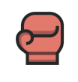
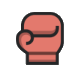
feat(ux): Combos as the third home card; Combos and Agent leave the header; boxing mark without its white box
The home cards are the front door for the agent, the analyst and the Combo
Builder; the header keeps the logo, help, theme and account, with the
league bar beneath. The boxing glove's white background is knocked out to
transparency.

diff --git a/client/src/components/shell/MarketNav.tsx b/client/src/components/shell/MarketNav.tsx
@@ -30,84 +30,35 @@ const LEAGUE_ITEMS: NavItem[] = SPORTS.map(
   }),
 );
 
-/** The product sections beside the logo: the Combo Builder and the agent. */
-const SECTION_ITEMS: NavItem[] = [
-  { label: "Combos", destination: { kind: "combos" } },
-  { label: "Agent", destination: { kind: "agent" } },
-];
-
-const ROW_BUTTON =
-  "inline-flex items-center gap-1.5 text-text hover:text-accent transition-colors cursor-pointer whitespace-nowrap";
-
 /**
- * Section nav — Combos · Agent — shared by the in-app header and the
- * docs/legal `SiteHeader`. The leagues live in `LeagueBar` (the sub-header)
- * on wide screens; the hamburger sheet (`layout="column"`) lists both the
- * leagues and the sections in one column (B-014 mobile guidance).
+ * The leagues as a single column, for the hamburger sheet (B-014 mobile
+ * guidance). On wide screens the same list is the `LeagueBar` sub-header.
+ * Combos and the agent are not header items: the home cards open them.
  */
 export function MarketNav({
   onNavigate,
   className,
-  layout = "row",
 }: {
   onNavigate: (destination: NavDestination) => void;
   className: string;
-  layout?: "row" | "column";
 }) {
-  if (layout === "column") {
-    return (
-      <nav aria-label="Markets" className={className}>
-        <ul className="flex flex-col text-[14px] font-medium">
-          {LEAGUE_ITEMS.map((item) => (
-            <li key={item.label}>
-              <button
-                type="button"
-                onClick={() => {
-                  onNavigate(item.destination);
-                }}
-                className={`flex w-full items-center gap-2.5 rounded-sm px-2 py-2.5 text-left transition-colors cursor-pointer hover:bg-row-hover hover:text-accent ${item.comingSoon ? "text-text-dim" : "text-text"}`}
-              >
-                {item.sport && <LeagueLogo league={item.sport} />}
-                {item.label}
-                {item.comingSoon && item.sport && (
-                  <span className="ml-auto text-[11px] text-text-mute">Coming soon</span>
-                )}
-              </button>
-            </li>
-          ))}
-          <li>
-            <div className="my-2 h-px bg-border-soft" aria-hidden="true" />
-          </li>
-          {SECTION_ITEMS.map((item) => (
-            <li key={item.label}>
-              <button
-                type="button"
-                onClick={() => {
-                  onNavigate(item.destination);
-                }}
-                className="flex w-full items-center gap-2.5 rounded-sm px-2 py-2.5 text-left text-text hover:bg-row-hover hover:text-accent transition-colors cursor-pointer"
-              >
-                {item.label}
-              </button>
-            </li>
-          ))}
-        </ul>
-      </nav>
-    );
-  }
   return (
-    <nav aria-label="Sections" className={className}>
-      <ul className="flex w-max mx-auto items-center gap-x-4 lg:gap-x-6 text-[13px] font-medium">
-        {SECTION_ITEMS.map((item) => (
+    <nav aria-label="Markets" className={className}>
+      <ul className="flex flex-col text-[14px] font-medium">
+        {LEAGUE_ITEMS.map((item) => (
           <li key={item.label}>
             <button
               type="button"
               onClick={() => {
                 onNavigate(item.destination);
               }}
-              className={ROW_BUTTON}
+              className={`flex w-full items-center gap-2.5 rounded-sm px-2 py-2.5 text-left transition-colors cursor-pointer hover:bg-row-hover hover:text-accent ${item.comingSoon ? "text-text-dim" : "text-text"}`}
             >
+              {item.sport && <LeagueLogo league={item.sport} />}
               {item.label}
+              {item.comingSoon && item.sport && (
+                <span className="ml-auto text-[11px] text-text-mute">Coming soon</span>
+              )}
             </button>
           </li>
         ))}

diff --git a/client/src/components/shell/HomeMenu.tsx b/client/src/components/shell/HomeMenu.tsx
@@ -1,6 +1,6 @@
-import { BarChart3, Bot } from "lucide-react";
+import { BarChart3, Bot, Layers } from "lucide-react";
 
-export type HomePromptId = "analyze" | "agent";
+export type HomePromptId = "analyze" | "agent" | "combos";
 
 const PROMPTS: { id: HomePromptId; title: string; icon: typeof Bot }[] = [
   { id: "agent", title: "Create / Manage Sports Agent", icon: Bot },
@@ -9,11 +9,12 @@ const PROMPTS: { id: HomePromptId; title: string; icon: typeof Bot }[] = [
     title: "Analyze today's NFL games, matchups, and markets",
     icon: BarChart3,
   },
+  { id: "combos", title: "Build a combo across today's games", icon: Layers },
 ];
 
 interface Props {
   onPromptSelect: (id: HomePromptId) => void;
-  /** `responsive` (default): 1 column below `md`, 2 above — the
+  /** `responsive` (default): 1 column below `md`, 3 above — the
    *  single-column mobile layout per the design guidance (B-014).
    *  `single`: always one column, for the hamburger nav sheet where the
    *  container is narrow regardless of viewport width. */
@@ -21,12 +22,13 @@ interface Props {
 }
 
 /**
- * The home page's prompt cards — the agent and the analyst, side by side
- * across the top (one column on mobile). Also reused as the quick-actions
- * block inside the mobile nav sheet.
+ * The home page's prompt cards — the agent, the analyst and the Combo
+ * Builder across the top (one column on mobile). Also reused as the
+ * quick-actions block inside the mobile nav sheet; with Combos and Agent
+ * gone from the header, these cards are their front door.
  */
 export function HomePromptRow({ onPromptSelect, columns = "responsive" }: Props) {
-  const gridCols = columns === "single" ? "grid-cols-1" : "grid-cols-1 md:grid-cols-2";
+  const gridCols = columns === "single" ? "grid-cols-1" : "grid-cols-1 md:grid-cols-3";
   return (
     <div className={`grid ${gridCols} gap-3`}>
       {PROMPTS.map((p) => {

diff --git a/client/src/components/shell/Header.tsx b/client/src/components/shell/Header.tsx
@@ -4,7 +4,7 @@ import { useTheme } from "@/hooks/use-theme.tsx";
 import { Button } from "@/components/ui/button.tsx";
 import { Logo } from "./Logo.tsx";
 import { WalletMenu } from "./WalletMenu.tsx";
-import { LeagueBar, MarketNav, type NavDestination } from "./MarketNav.tsx";
+import { LeagueBar, type NavDestination } from "./MarketNav.tsx";
 import type { SportId } from "@/features/markets/sports.ts";
 import { MobileNavSheet } from "./MobileNavSheet.tsx";
 import type { HomePromptId } from "./HomeMenu.tsx";
@@ -34,8 +34,8 @@ interface HeaderProps {
 }
 
 /**
- * Top bar — logo left, league nav centred, theme toggle + Connect Wallet
- * right. Mirrors `SiteHeader` (docs/legal) so the nav is continuous across
+ * Top bar — logo left, help / theme / account right, the league bar
+ * beneath. Mirrors `SiteHeader` (docs/legal) so the nav is continuous across
  * both surfaces; below `md` the nav hides behind a hamburger that opens the
  * `MobileNavSheet` (B-014 mobile guidance: hidden sidebar + hamburger).
  */
@@ -81,8 +81,7 @@ export function Header({
           <Logo size={30} />
           <span className="hidden text-[17px] font-semibold tracking-tight sm:inline">Mantua</span>
         </button>
-        <MarketNav onNavigate={onNavigate} className="hidden min-w-0 flex-1 md:block" />
-        <div className="ml-auto flex shrink-0 items-center gap-1.5 md:ml-0 md:gap-2.5">
+        <div className="ml-auto flex shrink-0 items-center gap-1.5 md:gap-2.5">
           {/* Task 070 (AE-007) — help is one press from anywhere, signed in
               or not; the app listens for the event like it does for login. */}
           <Button

diff --git a/client/src/components/shell/SiteHeader.tsx b/client/src/components/shell/SiteHeader.tsx
@@ -2,7 +2,7 @@ import type { ReactNode } from "react";
 import { Sun, Moon } from "lucide-react";
 import { useTheme } from "@/hooks/use-theme.tsx";
 import { Logo } from "./Logo.tsx";
-import { LeagueBar, MarketNav, type NavDestination } from "./MarketNav.tsx";
+import { LeagueBar, type NavDestination } from "./MarketNav.tsx";
 
 interface Props {
   /** Rendered before the logo — the docs page's sidebar toggle. */
@@ -71,10 +71,7 @@ export function SiteHeader({
             <span className="text-[13px] text-text-dim">{tag}</span>
           </span>
         )}
-        {onNavigate && (
-          <MarketNav onNavigate={onNavigate} className="hidden min-w-0 flex-1 md:block" />
-        )}
-        <div className={`ml-auto flex shrink-0 items-center gap-2${onNavigate ? " md:ml-0" : ""}`}>
+        <div className="ml-auto flex shrink-0 items-center gap-2">
           <button
             type="button"
             onClick={toggle}
@@ -92,8 +89,6 @@ export function SiteHeader({
           </button>
         </div>
       </div>
-      {/* Too narrow to share the row — the nav gets its own strip. */}
-      {onNavigate && <MarketNav onNavigate={onNavigate} className="px-5 pb-3 md:hidden" />}
       {onNavigate && (
         <LeagueBar
           onNavigate={onNavigate}

diff --git a/client/src/components/shell/MobileNavSheet.tsx b/client/src/components/shell/MobileNavSheet.tsx
@@ -32,7 +32,6 @@ export function MobileNavSheet({ open, onOpenChange, onNavigate, onQuickAction }
           <SheetTitle>Menu</SheetTitle>
         </SheetHeader>
         <MarketNav
-          layout="column"
           className="mt-4"
           onNavigate={(destination) => {
             close();

diff --git a/client/src/App.tsx b/client/src/App.tsx
@@ -807,6 +807,8 @@ function promptToRoute(id: HomePromptId): Route {
       return { kind: "analyze" };
     case "agent":
       return { kind: "agent" };
+    case "combos":
+      return { kind: "combos" };
   }
 }
 
